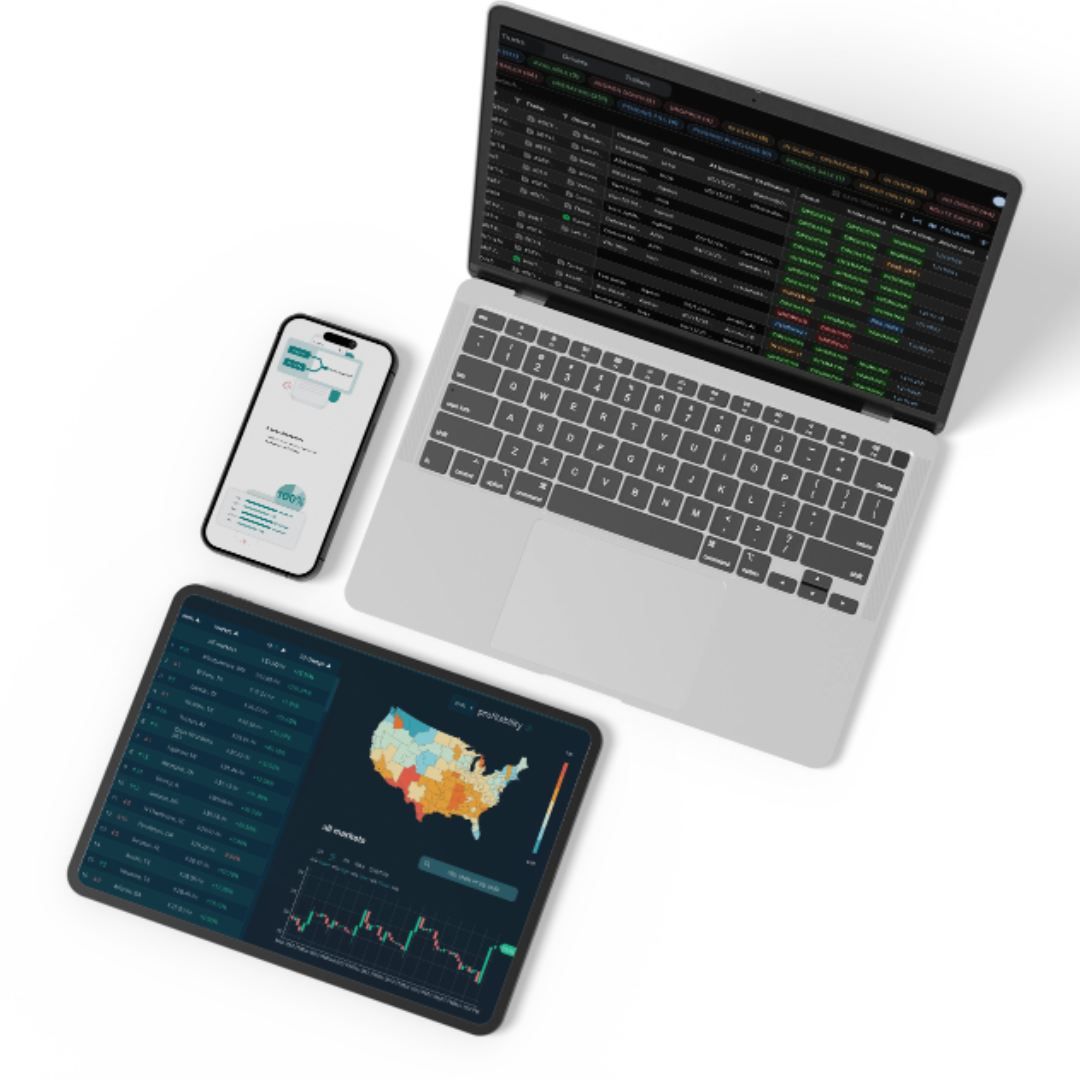
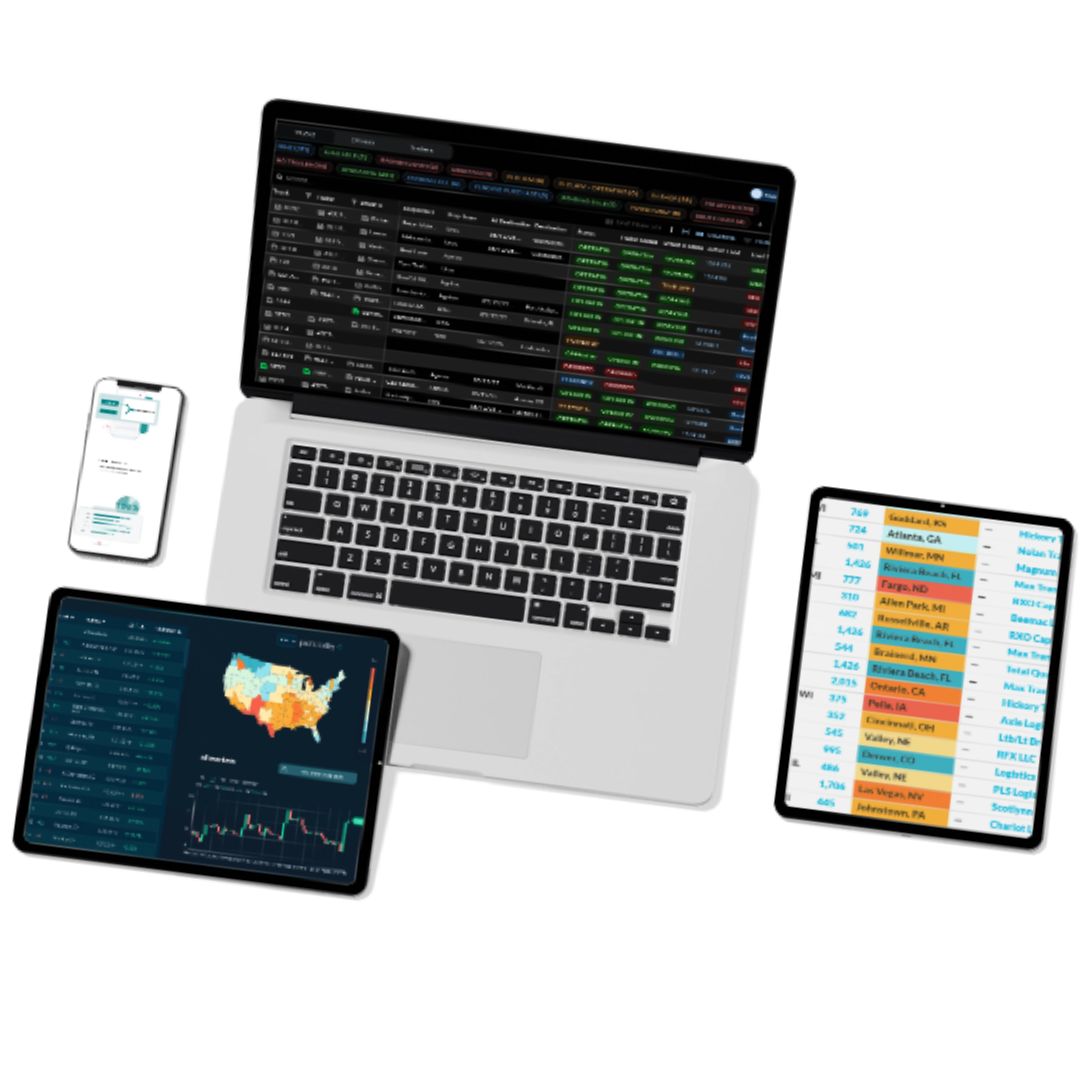
another-puh

diff --git a/index.html b/index.html
@@ -299,12 +299,12 @@
               class="gap- flex flex-col pt-2.5"
               style="margin-left: 5vw; margin-right: 5vw"
             >
-              <div class="relative  w-full" style="margin-bottom: -20px">
+              <div class="relative  w-full" style="margin-bottom: -30px">
                 <div
                   class="flex flex-col gap-7 lg:grid lg:grid-cols-2 lg:items-center lg:gap-8"
                 >
                   <div class="lg:col-span-1 lg:order-2 lg:pl-10">
-                    <img src="assets/images/homepage3.png" style=" height:700px; padding-top:80px" />
+                    <img src="assets/images/homepage.png" style=" height:700px; padding-top:80px" />
                   </div>
                   <div
                     class="flex flex-col pb-3.5 items-center text-center lg:items-start lg:text-left" style="margin-bottom: 30px;"
